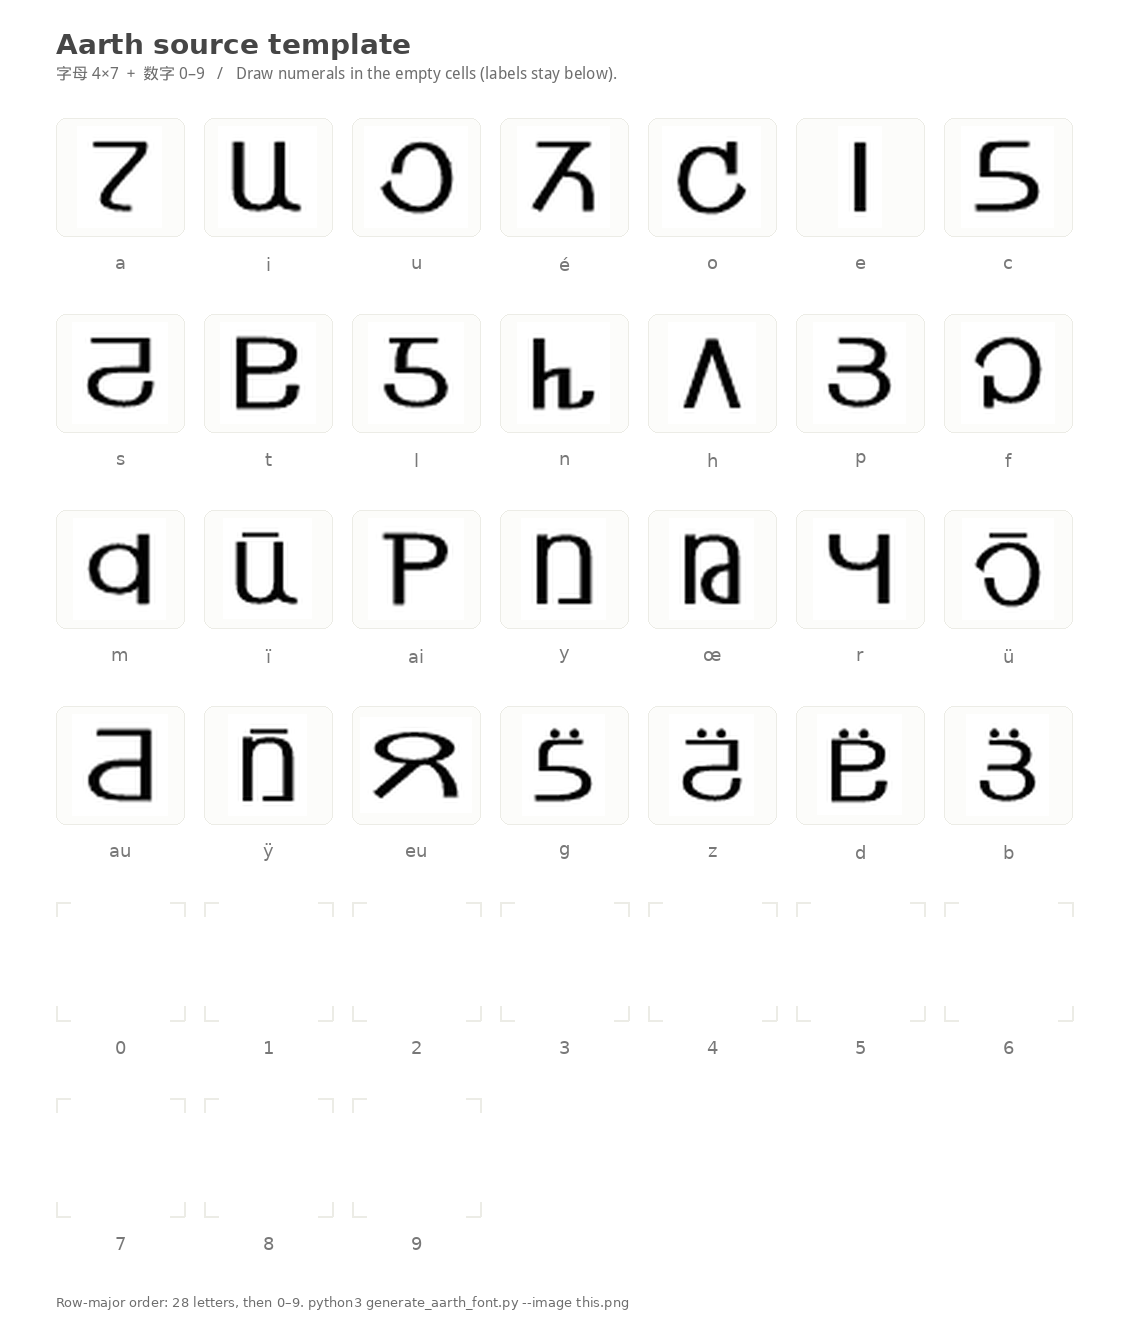
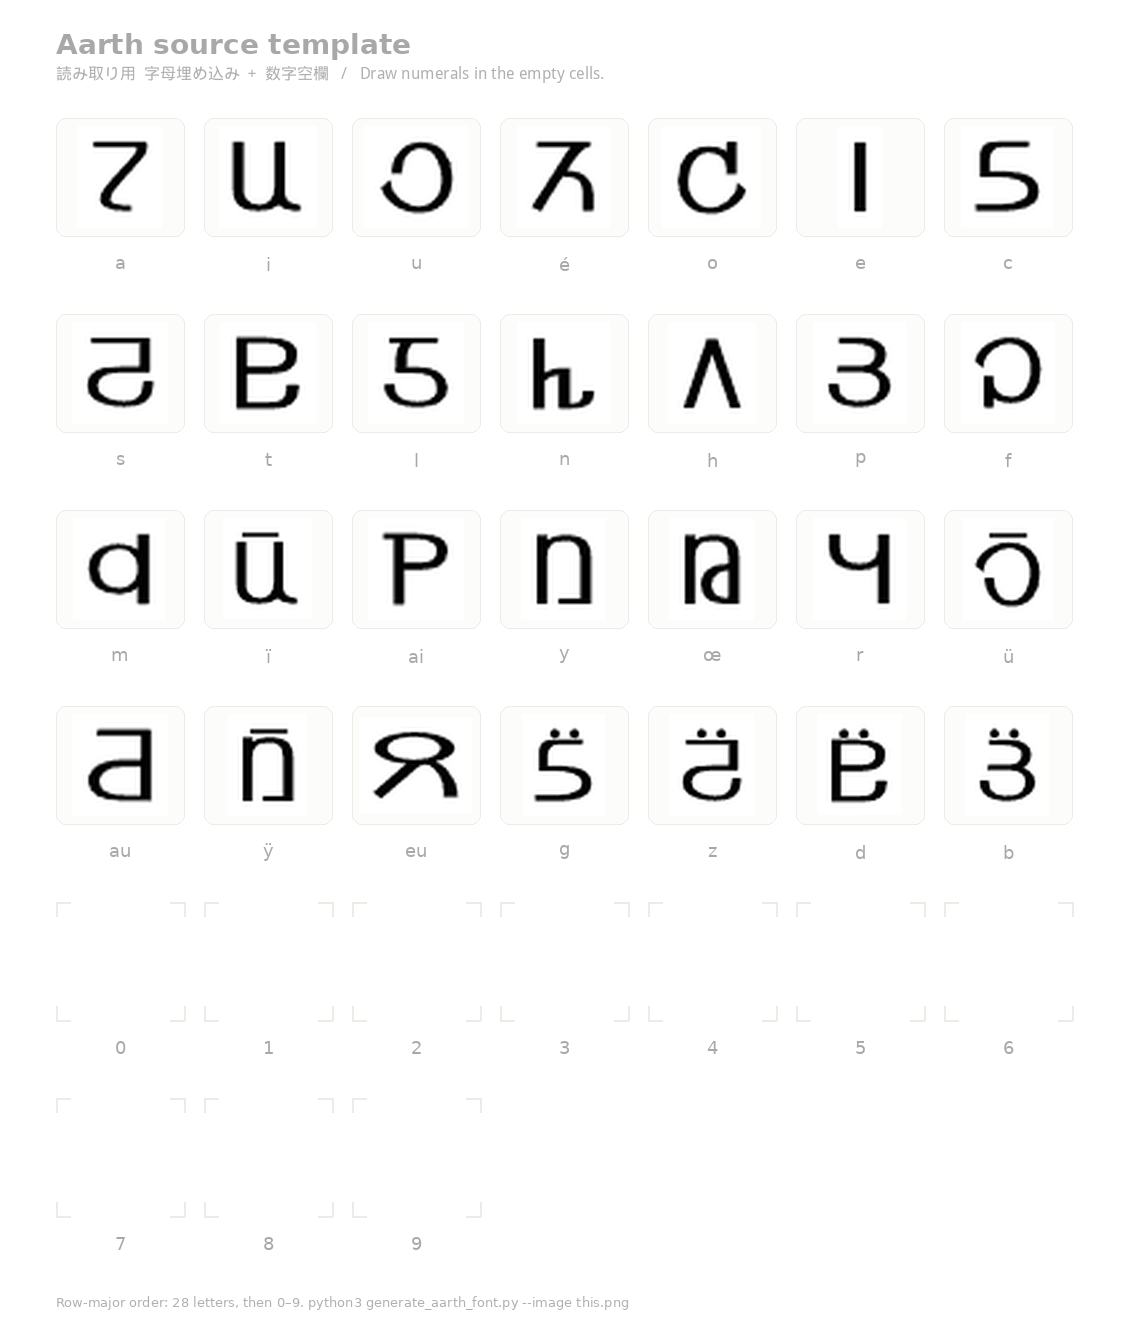
feat: 全グリフ未記入の空白テンプレートを追加
読み取り用シートとは別に ath_blank_template.png を出力する。
空シートではキャプションが誤検出されないよう、薄いグレー注釈と
近黒インク判定を組み合わせる。

Changed region(s): [[0.031, 0.0306, 0.5275, 0.0613]]

diff --git a/generate_aarth_font.py b/generate_aarth_font.py
@@ -15,7 +15,7 @@ Pipeline:
 
 Usage:
     python generate_aarth_font.py [--image PATH_OR_URL]
-    python generate_aarth_font.py --write-template templates/ath_source_template.png
+    python generate_aarth_font.py --write-template templates/
 
 Requirements (install once):
     pip install opencv-python-headless pillow fonttools brotli
@@ -131,6 +131,9 @@ TRACE_SCALE = 8
 # cubic-upsample so potrace sees a dense, already-smooth 0.5 isosurface.
 TRACE_SDF_SIGMA = 1.2
 TRACE_BLACKLEVEL = 0.5   # midpoint of the SDF ramp (0-level of the field)
+# Box detection ignores light-gray template titles/guides (blank sheets
+# have no black glyphs, so Otsu would otherwise promote captions to ink).
+DETECT_INK_MAX = 110
 
 
 # ---------------------------------------------------------------------------
@@ -159,6 +162,9 @@ def binarize(gray: np.ndarray) -> np.ndarray:
     _, binary = cv2.threshold(gray, 0, 255, cv2.THRESH_BINARY + cv2.THRESH_OTSU)
     # Glyphs are dark (0) on white (255); invert so glyphs are white on black
     binary = cv2.bitwise_not(binary)
+    # Drop light-gray template captions/guides. On a blank sheet Otsu would
+    # treat those as the only "ink".
+    binary = np.where(gray < DETECT_INK_MAX, binary, 0).astype(np.uint8)
     # Do not apply morphological opening: 2×2 opening eats umlaut dots (~4×4).
     return binary
 
@@ -725,9 +731,9 @@ MARGIN_TOP = 118
 MARGIN_BOTTOM = 72
 GUIDE_FILL = (252, 252, 250)
 GUIDE_OUTLINE = (236, 236, 230)
-LABEL_FILL = (120, 120, 120)
-TITLE_FILL = (70, 70, 70)
-NOTE_FILL = (110, 110, 110)
+LABEL_FILL = (168, 168, 168)
+TITLE_FILL = (168, 168, 168)
+NOTE_FILL = (176, 176, 176)
 
 
 def _try_font(path: Path, size: int):
@@ -748,6 +754,19 @@ def _centered_text(draw, xy, text, font, fill):
         (x + (w - tw) / 2 - bbox[0], y + (h - th) / 2 - bbox[1]),
         text, font=font, fill=fill,
     )
+
+
+def _draw_corner_ticks(draw, box_xy, tick: int = 14) -> None:
+    """Light corner marks that stay below the Otsu ink threshold."""
+    x0, y0, x1, y1 = box_xy
+    draw.line((x0, y0, x0 + tick, y0), fill=GUIDE_OUTLINE, width=2)
+    draw.line((x0, y0, x0, y0 + tick), fill=GUIDE_OUTLINE, width=2)
+    draw.line((x1 - tick, y0, x1, y0), fill=GUIDE_OUTLINE, width=2)
+    draw.line((x1, y0, x1, y0 + tick), fill=GUIDE_OUTLINE, width=2)
+    draw.line((x0, y1 - tick, x0, y1), fill=GUIDE_OUTLINE, width=2)
+    draw.line((x0, y1, x0 + tick, y1), fill=GUIDE_OUTLINE, width=2)
+    draw.line((x1, y1 - tick, x1, y1), fill=GUIDE_OUTLINE, width=2)
+    draw.line((x1 - tick, y1, x1, y1), fill=GUIDE_OUTLINE, width=2)
 
 
 def _paste_glyph_in_cell(canvas, src_rgb: np.ndarray, box, cell_xy, padding: int = 6):
@@ -775,13 +794,20 @@ def _paste_glyph_in_cell(canvas, src_rgb: np.ndarray, box, cell_xy, padding: int
     canvas.paste(glyph, (px, py))
 
 
-def write_source_template(dest: Path, alphabet_image: Path | None = None) -> Path:
+def write_source_template(
+    dest: Path,
+    alphabet_image: Path | None = None,
+    blank: bool = False,
+) -> Path:
     """
     Write a labeled raster template: 4×7 alphabet cells + 0–9 numeral cells.
 
-    When ``alphabet_image`` is given, detected Ath letters are copied into the
-    alphabet cells so the sheet can be used as ``--image`` immediately; numeral
-    cells stay empty for the user to draw into.
+    Reading sheet (``blank=False``): when ``alphabet_image`` is given, detected
+    Ath letters are copied into the alphabet cells so the sheet can be used as
+    ``--image`` immediately; numeral cells stay empty.
+
+    Blank sheet (``blank=True``): every cell is empty (corner ticks only) so
+    all 38 glyphs can be drawn from scratch.
     """
     from PIL import ImageDraw
 
@@ -800,18 +826,32 @@ def write_source_template(dest: Path, alphabet_image: Path | None = None) -> Pat
     note_font = _try_font(_TEMPLATE_SANS, 14)
     label_font = _try_font(_TEMPLATE_SANS, 18)
     small_font = _try_font(_TEMPLATE_SANS, 13)
+    caption_font = jp_font if _TEMPLATE_JP.is_file() else note_font
 
-    draw.text((MARGIN_X, 28), "Aarth source template", font=title_font, fill=TITLE_FILL)
-    draw.text(
-        (MARGIN_X, 64),
-        "字母 4×7 ＋ 数字 0–9   /   Draw numerals in the empty cells (labels stay below).",
-        font=jp_font if _TEMPLATE_JP.is_file() else note_font,
-        fill=NOTE_FILL,
-    )
+    if blank:
+        draw.text((MARGIN_X, 28), "Aarth blank template", font=title_font, fill=TITLE_FILL)
+        draw.text(
+            (MARGIN_X, 64),
+            "全グリフ未記入  字母 4×7 ＋ 数字 0–9   /   Draw every glyph. Labels stay below.",
+            font=caption_font,
+            fill=NOTE_FILL,
+        )
+    else:
+        draw.text((MARGIN_X, 28), "Aarth source template", font=title_font, fill=TITLE_FILL)
+        draw.text(
+            (MARGIN_X, 64),
+            "読み取り用  字母埋め込み ＋ 数字空欄   /   Draw numerals in the empty cells.",
+            font=caption_font,
+            fill=NOTE_FILL,
+        )
 
     alphabet_boxes = []
     src_bgr = None
-    if alphabet_image is not None and Path(alphabet_image).is_file():
+    if (
+        not blank
+        and alphabet_image is not None
+        and Path(alphabet_image).is_file()
+    ):
         src_bgr = cv2.imread(str(alphabet_image), cv2.IMREAD_COLOR)
         gray = load_grayscale(Path(alphabet_image))
         binary = binarize(gray)
@@ -824,19 +864,11 @@ def write_source_template(dest: Path, alphabet_image: Path | None = None) -> Pat
             cy = MARGIN_TOP + r * (CELL_H + GAP_Y)
             is_digit = r >= ALPHABET_ROWS
             box_xy = (cx, cy, cx + CELL_W, cy + GLYPH_AREA_H)
-            if is_digit:
+            empty = blank or is_digit
+            if empty:
                 # Corner ticks only — a closed grey box would survive Otsu as a
                 # fake "glyph" when the cell has no ink yet.
-                tick = 14
-                x0, y0, x1, y1 = box_xy
-                draw.line((x0, y0, x0 + tick, y0), fill=GUIDE_OUTLINE, width=2)
-                draw.line((x0, y0, x0, y0 + tick), fill=GUIDE_OUTLINE, width=2)
-                draw.line((x1 - tick, y0, x1, y0), fill=GUIDE_OUTLINE, width=2)
-                draw.line((x1, y0, x1, y0 + tick), fill=GUIDE_OUTLINE, width=2)
-                draw.line((x0, y1 - tick, x0, y1), fill=GUIDE_OUTLINE, width=2)
-                draw.line((x0, y1, x0 + tick, y1), fill=GUIDE_OUTLINE, width=2)
-                draw.line((x1, y1 - tick, x1, y1), fill=GUIDE_OUTLINE, width=2)
-                draw.line((x1 - tick, y1, x1, y1), fill=GUIDE_OUTLINE, width=2)
+                _draw_corner_ticks(draw, box_xy)
             else:
                 draw.rounded_rectangle(
                     box_xy, radius=10, fill=GUIDE_FILL, outline=GUIDE_OUTLINE, width=1,
@@ -859,8 +891,33 @@ def write_source_template(dest: Path, alphabet_image: Path | None = None) -> Pat
     draw.text((MARGIN_X, height - 44), footer, font=small_font, fill=NOTE_FILL)
 
     canvas.save(str(dest), "PNG")
-    print(f"[output] source template → {dest}")
+    kind = "blank template" if blank else "source template"
+    print(f"[output] {kind} → {dest}")
     return dest
+
+
+def write_source_templates(
+    dest: Path,
+    alphabet_image: Path | None = None,
+) -> tuple[Path, Path]:
+    """Write the reading sheet and the all-empty blank sheet.
+
+    ``dest`` may be a directory (canonical filenames) or a ``.png`` path for
+    the reading sheet; the blank sheet is always ``ath_blank_template.png``
+    next to it.
+    """
+    dest = Path(dest)
+    image_suffixes = {".png", ".jpg", ".jpeg", ".webp"}
+    if dest.suffix.lower() in image_suffixes:
+        filled = dest
+        blank = dest.with_name("ath_blank_template.png")
+    else:
+        dest.mkdir(parents=True, exist_ok=True)
+        filled = dest / "ath_source_template.png"
+        blank = dest / "ath_blank_template.png"
+    write_source_template(filled, alphabet_image=alphabet_image, blank=False)
+    write_source_template(blank, alphabet_image=None, blank=True)
+    return filled, blank
 
 
 def _acquire_image(spec: str | None, output_dir: Path, fallback_name: str) -> Path:
@@ -915,7 +972,7 @@ def main():
     )
     parser.add_argument(
         "--write-template", default=None, metavar="PATH",
-        help="Write the labeled source-image template (letters + empty 0–9 cells) and exit",
+        help="Write reading + blank templates (PNG path or directory) and exit",
     )
     parser.add_argument("--output-dir", default=".", help="Directory for output files")
     parser.add_argument("--debug", action="store_true", help="Save debug images")
@@ -930,7 +987,7 @@ def main():
             alphabet_src = Path(args.image)
         elif (Path("Ath_alphabet.png")).is_file():
             alphabet_src = Path("Ath_alphabet.png")
-        write_source_template(Path(args.write_template), alphabet_image=alphabet_src)
+        write_source_templates(Path(args.write_template), alphabet_image=alphabet_src)
         return
 
     # --- 1. Acquire image ---

diff --git a/tests/test_digits_template.py b/tests/test_digits_template.py
@@ -111,6 +111,30 @@ class DigitGridDetectionTest(unittest.TestCase):
         self.assertEqual(len(alphabet), 28, msg="prefilled letters must still detect")
         self.assertEqual(digits, [], msg="empty numeral cells must not be detected")
 
+    def test_blank_template_has_no_glyphs(self):
+        dest = Path(tempfile.mkdtemp(prefix="aarth-blank-")) / "blank.png"
+        aarth.write_source_template(dest, blank=True)
+        binary = aarth.load_and_binarize(dest)
+        alphabet, digits = aarth.find_alphabet_and_digit_boxes(binary)
+        self.assertEqual(alphabet, [], msg="blank sheet must not invent letters")
+        self.assertEqual(digits, [], msg="blank sheet must not invent digits")
+
+    def test_write_source_templates_emits_reading_and_blank(self):
+        dest = Path(tempfile.mkdtemp(prefix="aarth-both-"))
+        filled, blank = aarth.write_source_templates(dest, alphabet_image=SOURCE_PNG)
+        self.assertEqual(filled.name, "ath_source_template.png")
+        self.assertEqual(blank.name, "ath_blank_template.png")
+        self.assertTrue(filled.is_file())
+        self.assertTrue(blank.is_file())
+        filled_bin = aarth.load_and_binarize(filled)
+        blank_bin = aarth.load_and_binarize(blank)
+        f_alpha, f_digits = aarth.find_alphabet_and_digit_boxes(filled_bin)
+        b_alpha, b_digits = aarth.find_alphabet_and_digit_boxes(blank_bin)
+        self.assertEqual(len(f_alpha), 28)
+        self.assertEqual(f_digits, [])
+        self.assertEqual(b_alpha, [])
+        self.assertEqual(b_digits, [])
+
 
 class DigitsInFontTest(unittest.TestCase):
     def test_digits_image_lands_in_cmap(self):

diff --git a/README.md b/README.md
@@ -2,7 +2,7 @@
 
 [アース（Ath）](https://ja.wikipedia.org/wiki/%E3%82%A2%E3%83%BC%E3%83%B4%E8%AA%9E) の字形を抽出し、Web フォント（`aarth.ttf` / `aarth.woff2`）にしたものです。
 
-字母に加え、同じラスタ入力（または別画像）から **数字 0–9** もグリフ化できます。数字の公式ラスタがリポジトリに無い場合は、下の [入力テンプレート](#入力テンプレート) の空欄に描いて `--image` または `--digits-image` で渡してください。
+字母に加え、同じラスタ入力（または別画像）から **数字 0–9** もグリフ化できます。数字の公式ラスタがリポジトリに無い場合は、下の [入力テンプレート](#入力テンプレート) に描いて `--image` または `--digits-image` で渡してください。数字だけ足すなら読み取り用、全グリフを描くなら未記入シートを使います。
 
 ## デモ
 
@@ -183,17 +183,30 @@ au  ÿ   eu  g   z   d   b
 7   8   9
 ```
 
-同じ配置の塗り込み用シートは次で生成します（字母セルには Wikipedia 出典の字形を埋め、数字セルは空欄です）。
+同じ配置のシートを 2 種類同梱しています。
+
+| ファイル | 用途 |
+|---|---|
+| `templates/ath_source_template.png` | **読み取り用。** 字母 28 字は Wikipedia 出典を埋め込み、数字セルだけ空欄 |
+| `templates/ath_blank_template.png` | **未記入。** 字母・数字とも空欄。全グリフを手描きするとき |
+
+再生成:
 
 ```bash
-python3 generate_aarth_font.py --write-template templates/ath_source_template.png
+python3 generate_aarth_font.py --write-template templates/
 ```
+
+読み取り用:
 
 ![Aarth source template](templates/ath_source_template.png)
 
+未記入（空白）:
+
+![Aarth blank template](templates/ath_blank_template.png)
+
 使い方:
 
-1. `templates/ath_source_template.png` をコピーし、空の数字セル（角のガイド）に黒インクで 0–9 を描く。
+1. 数字だけ足すなら読み取り用をコピーし、空の数字セルに黒インクで 0–9 を描く。全字形を描くなら未記入シートを使う。
 2. 白地・黒字形のまま PNG で保存する（ガイドやラベルは薄いグレーのまま残してよい）。
 3. フォントを生成する。
 
@@ -205,7 +218,7 @@ python3 generate_aarth_font.py --image path/to/filled_template.png
 python3 generate_aarth_font.py --image Ath_alphabet.png --digits-image path/to/digits.png
 ```
 
-数字だけを描く場合も、上の 5–6 行目と同じ **7+3**（または横一列の 10 セル）にしてください。アースの数字字形は原作イラストの赤井孝美氏による設計です。リポジトリにはパブリックドメインの数字ラスタが無いため、空欄テンプレートだけを同梱しています。
+数字だけを描く場合も、上の 5–6 行目と同じ **7+3**（または横一列の 10 セル）にしてください。アースの数字字形は原作イラストの赤井孝美氏による設計です。リポジトリにはパブリックドメインの数字ラスタが無いため、数字セルは空欄のままです。全グリフを自前で描く場合は未記入テンプレートを使ってください。
 
 ---
 
@@ -215,7 +228,7 @@ python3 generate_aarth_font.py --image Ath_alphabet.png --digits-image path/to/d
 |---|---|---|
 | `--image` | Wikimedia URL | Local path or HTTP URL of the alphabet (or combined) PNG |
 | `--digits-image` | off | Optional PNG of numerals 0–9 (`7+3` or one row of 10) |
-| `--write-template` | off | Write `templates/ath_source_template.png` (or given path) and exit |
+| `--write-template` | off | Write reading + blank templates to a PNG path or directory, then exit |
 | `--output-dir` | `.` | Directory to write output files |
 | `--debug` | off | Save `debug_boxes.png` (and `debug_digit_boxes.png` when digits are present) |
 
